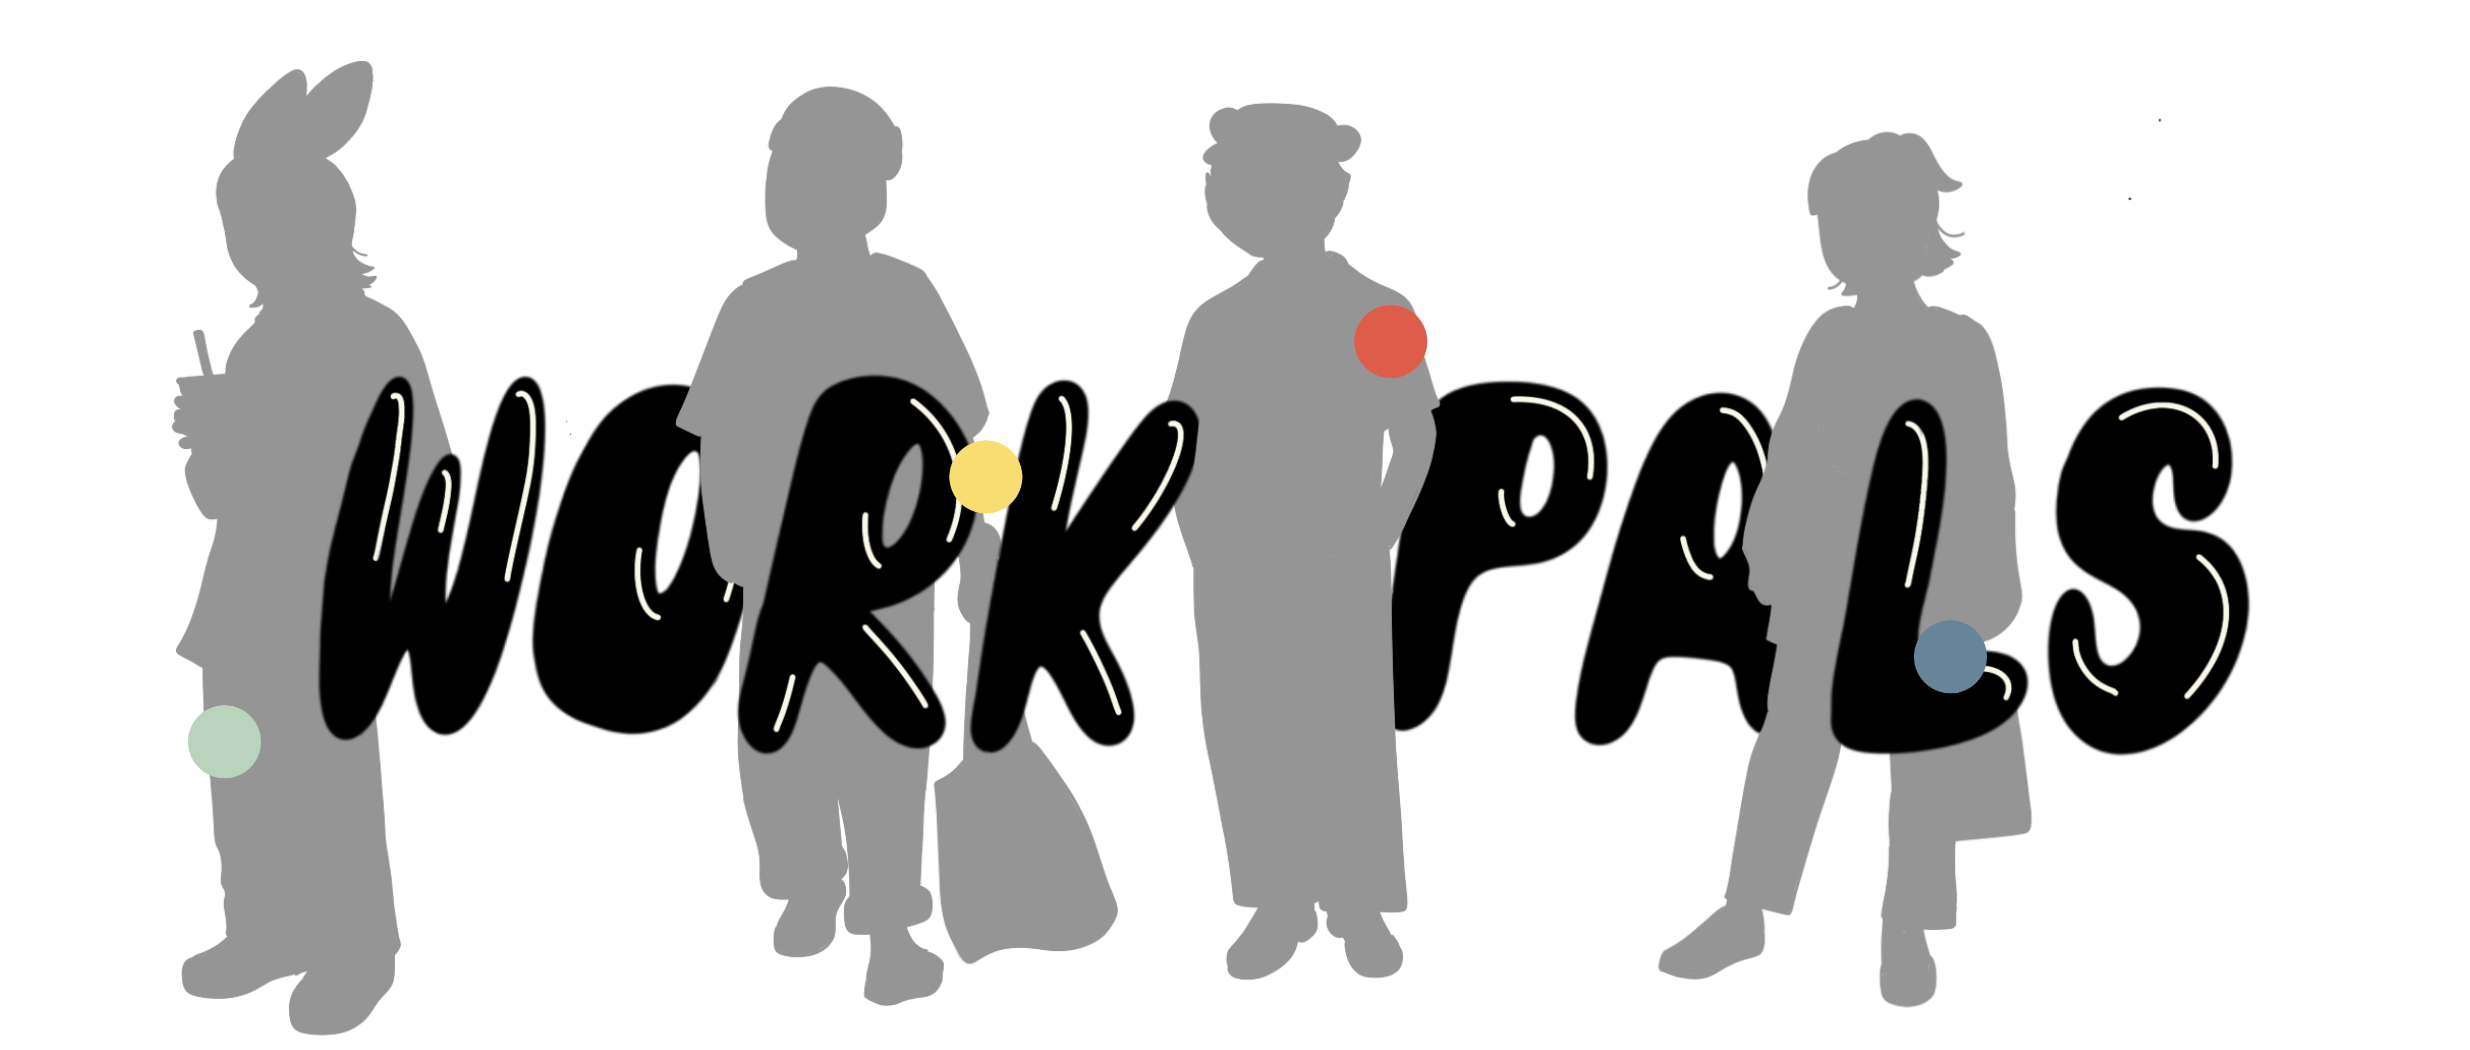
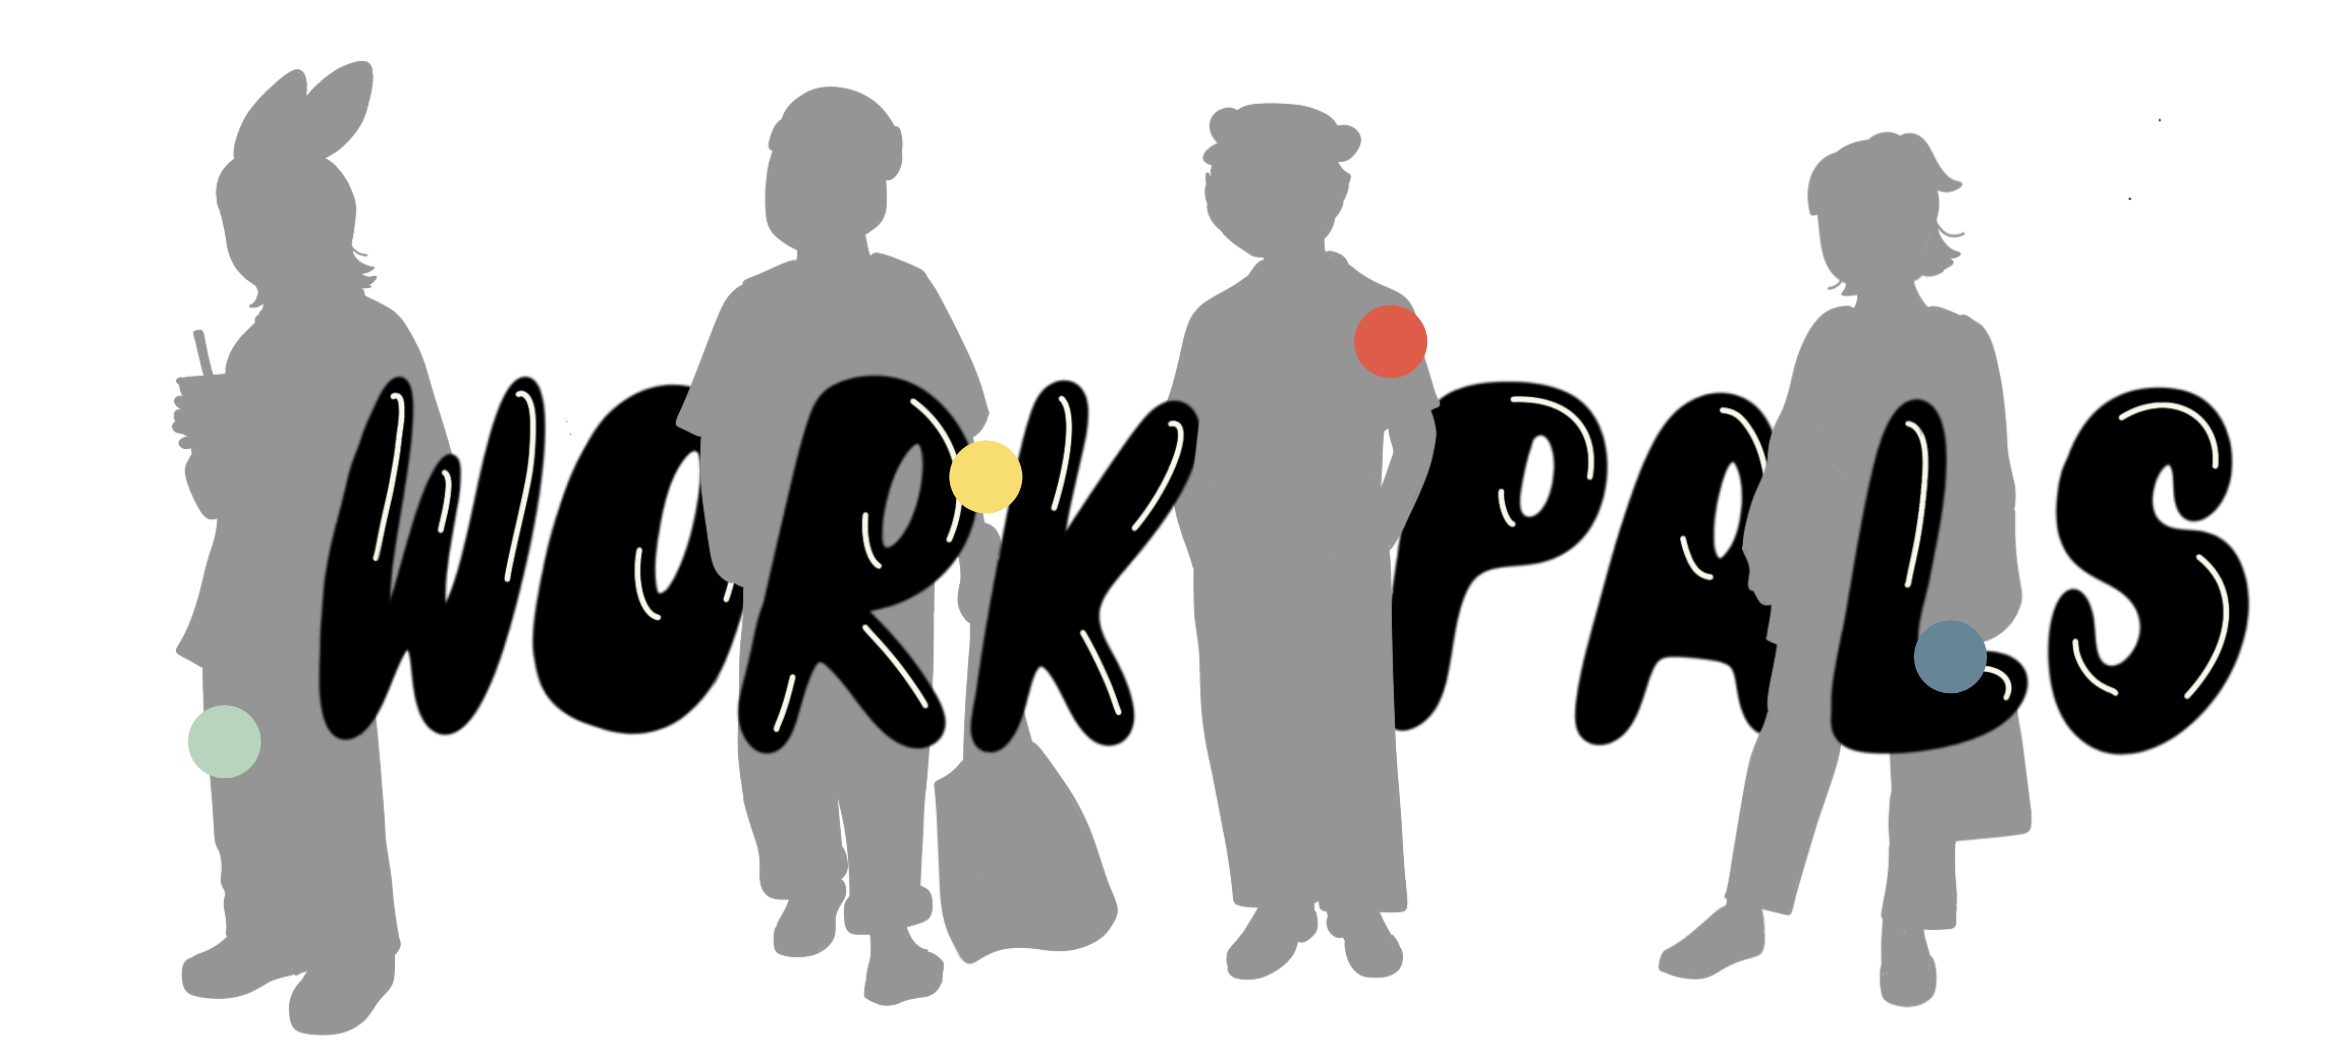
Switched designs to silhouette

Changed region(s): [[0.0623, 0.061, 0.965, 1.0], [0.0623, 0.1524, 0.0934, 0.2133]]

diff --git a/src/components/LandingPage.tsx b/src/components/LandingPage.tsx
@@ -1,20 +1,10 @@
-import { Box, Button, Flex, Image } from "@chakra-ui/react";
+import { Box, Button, Flex, Image, Heading, VStack } from "@chakra-ui/react";
 import type { NextPage } from "next";
 import Head from "next/head";
 import { useCallback } from "react";
-
-const Navbar = () => {
-	return (
-		<Flex paddingY="8px" marginTop="24px" justifyContent="space-between">
-			<Image src="./wp-icon.png" alt="WorkPals Icon" width="40px" />
-			<Box>Menu Box</Box>
-		</Flex>
-	);
-};
+import Navbar from "./shared/Navbar";
 
 const Home: NextPage = () => {
-	const handleJoinDiscord = useCallback(() => {}, []);
-
 	const handleFollowUs = useCallback(() => {
 		window.open(
 			"https://twitter.com/intent/follow?screen_name=WorkpalsNFT",
@@ -34,36 +24,37 @@ const Home: NextPage = () => {
 				<title>WorkPals NFT</title>
 			</Head>
 			<Navbar />
-			<Flex
-				flexDir="column"
-				justifyContent="center"
-				alignItems="center"
-				marginBottom="16px"
-				marginTop="20px"
-			>
-				<Image maxW="80%" src="/workpals-logo.png" alt="Workpals Icon" />
-			</Flex>
-			<Button backgroundColor="#2D151E" height="50px" isDisabled={true}>
-				Join Discord
-			</Button>
-			<Button
-				backgroundColor="#CCCCCC"
-				textColor="black"
-				borderColor="#2D151E"
-				borderWidth={3}
-				marginTop="12px"
-				height="50px"
-				onClick={handleFollowUs}
-			>
-				Follow Us
-			</Button>
 			<Image
 				src="/silhouette.png"
-				marginTop="54px"
+				marginTop="3.5rem"
+				marginBottom="5rem"
 				width="100%"
 				alt="art sneak-peek"
 				alignSelf="center"
 			/>
+			<Flex flexDir="column" flex={1} width="100%">
+				<Heading textTransform="uppercase" textAlign="center" mb="2rem">
+					Coming Soon.
+				</Heading>
+				<Button
+					backgroundColor="#2D151E"
+					height="50px"
+					isDisabled={true}
+					mb="1rem"
+				>
+					Join Discord
+				</Button>
+				<Button
+					backgroundColor="#CCCCCC"
+					textColor="black"
+					borderColor="#2D151E"
+					borderWidth={3}
+					height="50px"
+					onClick={handleFollowUs}
+				>
+					Follow Us
+				</Button>
+			</Flex>
 		</Flex>
 	);
 };

diff --git a/src/components/shared/Navbar.tsx b/src/components/shared/Navbar.tsx
@@ -1,0 +1,17 @@
+import { Flex, Image, Box } from "@chakra-ui/react";
+
+const Navbar = () => {
+	return (
+		<Flex paddingY="8px" marginTop="24px" justifyContent="space-between">
+			<Image
+				src="./wp-icon.png"
+				alt="WorkPals Icon"
+				width="48px"
+				height="40px"
+			/>
+			<Box>Menu Box</Box>
+		</Flex>
+	);
+};
+
+export default Navbar;
